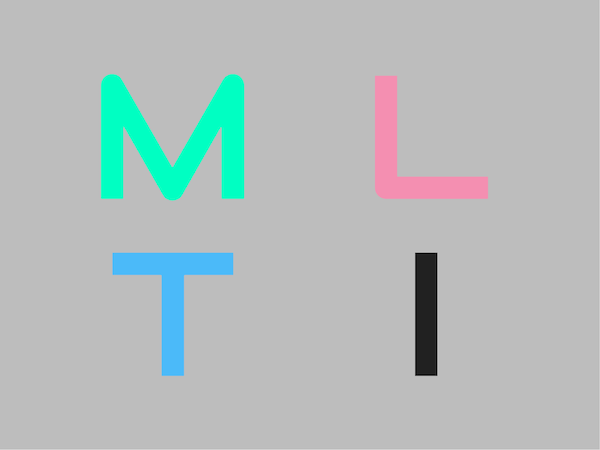
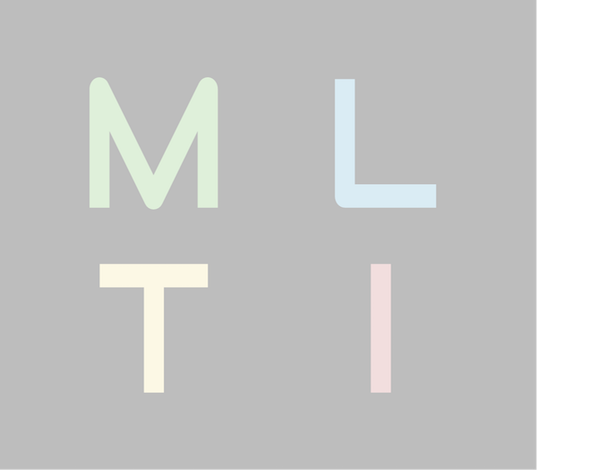
changed loading screen image

diff --git a/assets/js/game_over.js b/assets/js/game_over.js
@@ -45,7 +45,7 @@ var Game_Over = {
 
     preload: function() {
         // Load the needed image for this game screen.
-        game.load.image('gameover', './assets/images/gameover.png');
+        game.load.image('gameover', './assets/images/mlti2.png');
         if (gameScore > 30 && playerName != '') {
             postScore();
             setTimeout(displayLeaderBoard(), 2000);
@@ -65,6 +65,11 @@ var Game_Over = {
         game.add.text(325, 348, gameScore.toString(), {
             font: "bold 20px sans-serif",
             fill: "#fff",
+            align: "center"
+        });
+        game.add.text(190, 400, "Click To Play Again", {
+            font: "bold 24px sans-serif",
+            fill: "#46c0f9",
             align: "center"
         });
 

diff --git a/assets/js/game.js b/assets/js/game.js
@@ -190,7 +190,7 @@ var Game = {
         game.add.text(400,250, 'SOLVE', textStyle_Key2);
         game.add.text(350,350, 'YOUR ANSWER', textStyle_Key2);
         this.levelPause(4);
-        answerTextValue = game.add.text(425,400,mathAnswer.toString(), textStyle_Value2);
+        answerTextValue = game.add.text(475,400,mathAnswer.toString(), textStyle_Value2);
         gameScore++;
         level++;
         this.addMathTimer();

diff --git a/assets/css/main.css b/assets/css/main.css
@@ -6,7 +6,7 @@
 
 body {
   display: flex;
-  min-height: 100vh;
+  max-height: 100vh;
   flex-direction: column;
   /*width: 800px;
   margin: auto;*/
@@ -34,7 +34,7 @@ main {
   margin: auto;
   padding: 20px;
   margin-top: 2em;
-  margin-bottom: 2em;
+  /*margin-bottom: 2em;*/
 }
 
 header{

diff --git a/assets/js/menu.js b/assets/js/menu.js
@@ -1,7 +1,7 @@
 var Menu = {
 
     preload : function() {
-        game.load.image('menu', './assets/images/mlti.png');
+        game.load.image('menu', './assets/images/mlti1.png');
     },
 
     create: function () {
